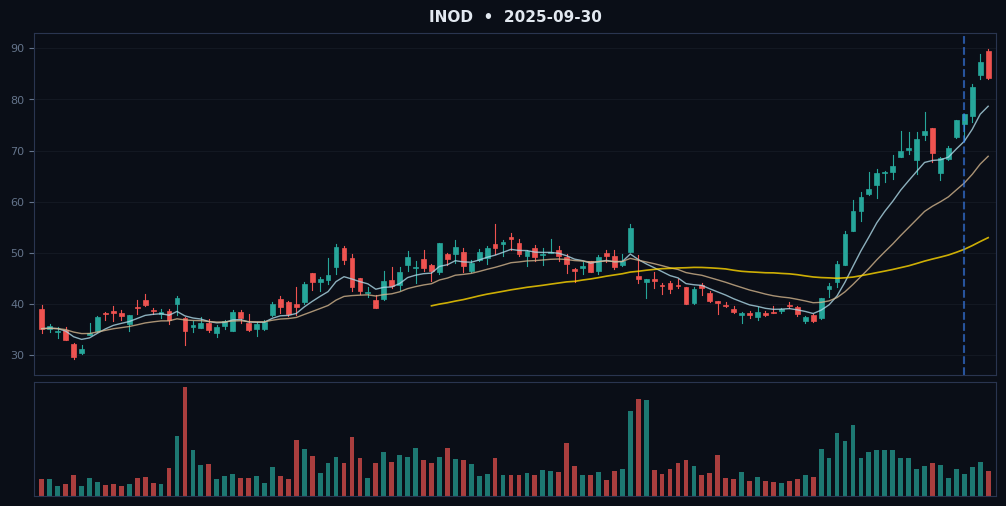
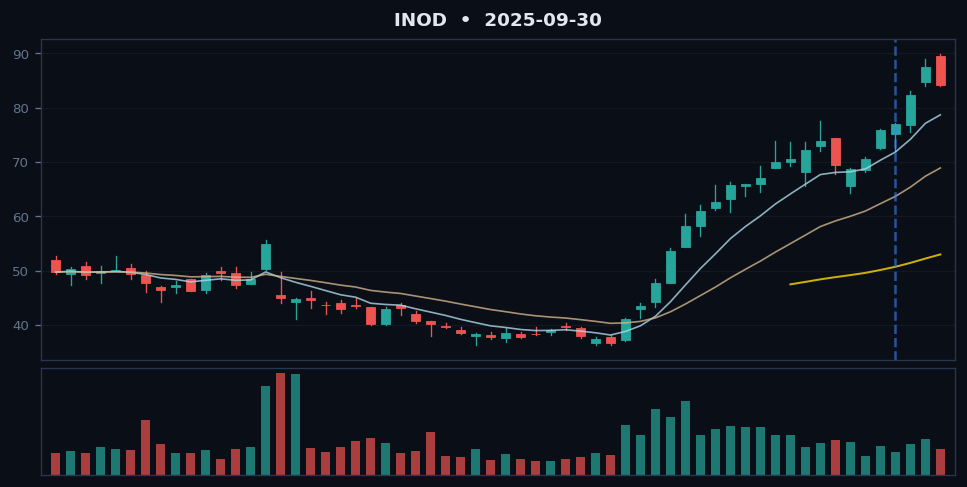
Zoom in charts (60 days) + 3-column grid layout

diff --git a/app/index.html b/app/index.html
@@ -464,7 +464,7 @@
           ) : examples.length > 0 ? (
             <div style={{
               display: 'grid',
-              gridTemplateColumns: 'repeat(auto-fill, minmax(420px, 1fr))',
+              gridTemplateColumns: 'repeat(3, 1fr)',
               gap: 16,
             }}>
               {examples.map(ex => (

diff --git a/server.py b/server.py
@@ -84,12 +84,12 @@ def generate_chart_image(df: pd.DataFrame, ticker: str, entry_date: str,
     # Trim to ~120 trading days ending near entry date
     entry_dt = pd.Timestamp(entry_date)
     mask = df["Date"] <= entry_dt + timedelta(days=5)
-    chart_df = df[mask].tail(120).copy().reset_index(drop=True)
+    chart_df = df[mask].tail(60).copy().reset_index(drop=True)
 
     if chart_df.empty:
         return None
 
-    fig, (ax, ax_vol) = plt.subplots(2, 1, figsize=(10, 5), dpi=100,
+    fig, (ax, ax_vol) = plt.subplots(2, 1, figsize=(8, 4), dpi=120,
                                       gridspec_kw={"height_ratios": [3, 1]},
                                       facecolor="#0a0e17")
     ax.set_facecolor("#0a0e17")
